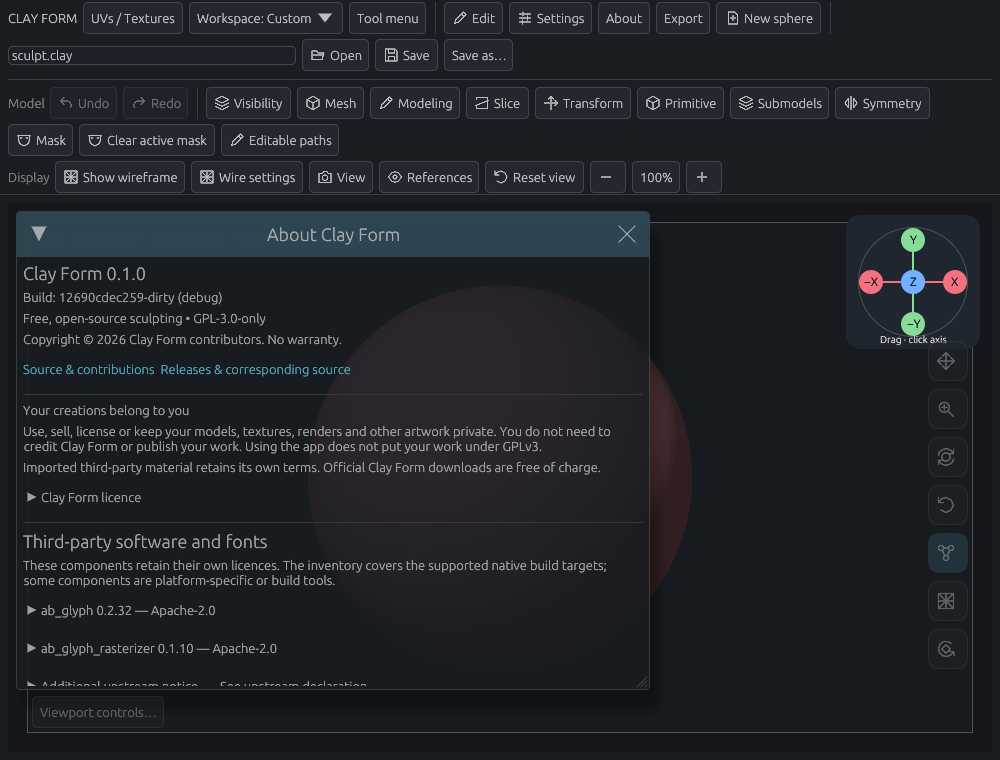
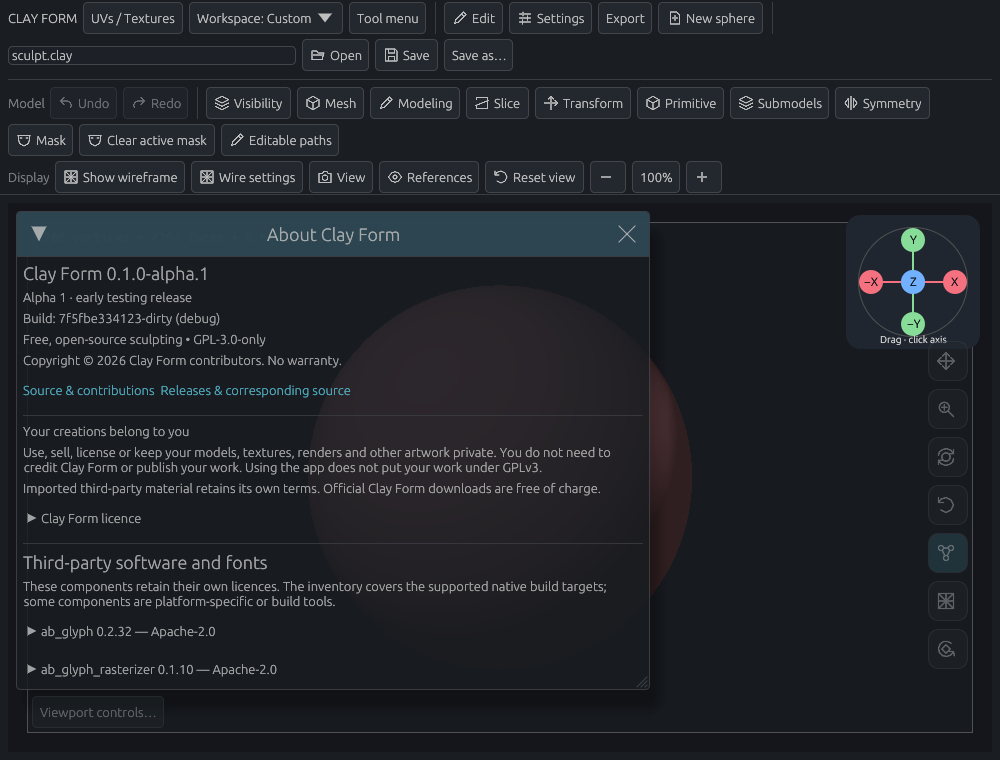
Designate Alpha 1 and keep About inside Settings

Changed region(s): [[0.031, 0.3329, 0.62, 0.9079], [0.589, 0.0, 0.837, 0.0303]]

diff --git a/scripts/test-package-release.py b/scripts/test-package-release.py
@@ -1,5 +1,6 @@
 """Focused archive tests; no compiler, network or signing identity required."""
 import importlib.util
+from itertools import product
 import json
 from pathlib import Path
 import plistlib
@@ -16,10 +17,10 @@ spec.loader.exec_module(packager)
 
 class NativeArchiveTests(unittest.TestCase):
     def test_all_targets_preserve_version_notices_source_identity_and_executable(self):
-        for target, suffix in packager.TARGETS.items():
-            with self.subTest(target=target), tempfile.TemporaryDirectory() as temp:
+        for (target, suffix), version in product(packager.TARGETS.items(), ["1.2.3", "0.1.0-alpha.1"]):
+            with self.subTest(target=target, version=version), tempfile.TemporaryDirectory() as temp:
                 root = Path(temp)
-                (root / 'Cargo.toml').write_text('[package]\nversion = "1.2.3"\n')
+                (root / 'Cargo.toml').write_text(f'[package]\nversion = "{version}"\n')
                 for name in ['LICENSE', 'COPYRIGHT.md', 'README.md', 'THIRD-PARTY-NOTICES.html']:
                     (root / name).write_text(name)
                 for directory in ['docs', 'legal', 'packaging/linux', 'sysroot/share/doc/rust/licenses']:
@@ -43,7 +44,7 @@ class NativeArchiveTests(unittest.TestCase):
 
                 with patch.object(packager, 'ROOT', root), patch('sys.argv', ['packager', '--target', target, '--profile', 'debug']), patch.object(packager.subprocess, 'check_output', side_effect=output), patch.object(packager.subprocess, 'run') as signing:
                     packager.main()
-                name = f'clay-form-v1.2.3-{suffix}'
+                name = f'clay-form-v{version}-{suffix}'
                 extension = '.tar.gz' if 'linux' in target else '.zip'
                 archive = root / 'dist' / (name + extension)
                 self.assertTrue(archive.is_file())
@@ -53,7 +54,7 @@ class NativeArchiveTests(unittest.TestCase):
                 self.assertEqual(metadata['commit'], 'a' * 40)
                 self.assertEqual(metadata['target'], target)
                 self.assertEqual(metadata['profile'], 'debug')
-                self.assertEqual(metadata['source_asset'], 'clay-form-v1.2.3-source.tar.gz')
+                self.assertEqual(metadata['source_asset'], f'clay-form-v{version}-source.tar.gz')
                 if extension == '.zip':
                     with zipfile.ZipFile(archive) as zipped:
                         members = zipped.namelist()
@@ -70,7 +71,8 @@ class NativeArchiveTests(unittest.TestCase):
                     self.assertIn(name + '/Clay Form.app/Contents/Resources/LICENSE', members)
                     plist = plistlib.loads((stage / 'Clay Form.app/Contents/Info.plist').read_bytes())
                     self.assertEqual(plist['CFBundleExecutable'], binary)
-                    self.assertEqual(plist['CFBundleShortVersionString'], '1.2.3')
+                    self.assertEqual(plist['CFBundleShortVersionString'], version.split('-')[0])
+                    self.assertGreater(int(plist['CFBundleVersion']), 0)
                     signing.assert_called_once()
                 else:
                     signing.assert_not_called()

diff --git a/src/app/tests/about.rs b/src/app/tests/about.rs
@@ -23,28 +23,31 @@ fn about_frame(app: &mut App, ctx: &egui::Context, events: Vec<egui::Event>) -> 
 fn about_button_opens_ownership_and_licences_without_editing_document() {
     let mut app = App::default();
     let ctx = egui::Context::default();
+    ctx.style_mut(|s| s.animation_time = 0.);
     let before = app.document.geometry_snapshot();
     about_frame(&mut app, &ctx, vec![]);
-    let output = about_frame(&mut app, &ctx, vec![]);
-    let position = output
-        .shapes
-        .iter()
-        .find_map(|s| match &s.shape {
-            egui::Shape::Text(t) if t.galley.text() == "About" => {
-                Some(t.pos + t.galley.size() * 0.5)
-            }
-            _ => None,
-        })
-        .expect("About button must be reachable");
-    about_frame(
-        &mut app,
-        &ctx,
-        vec![
-            egui::Event::PointerMoved(position),
-            primary_event(position, true),
-        ],
-    );
-    about_frame(&mut app, &ctx, vec![primary_event(position, false)]);
+    for label in ["Settings", "About Clay Form"] {
+        let output = about_frame(&mut app, &ctx, vec![]);
+        let position = output
+            .shapes
+            .iter()
+            .find_map(|s| match &s.shape {
+                egui::Shape::Text(t) if t.galley.text() == label => {
+                    Some(t.pos + t.galley.size() * 0.5)
+                }
+                _ => None,
+            })
+            .unwrap_or_else(|| panic!("{label} must be reachable"));
+        about_frame(
+            &mut app,
+            &ctx,
+            vec![
+                egui::Event::PointerMoved(position),
+                primary_event(position, true),
+            ],
+        );
+        about_frame(&mut app, &ctx, vec![primary_event(position, false)]);
+    }
     assert!(app.ui.about_open);
     about_frame(&mut app, &ctx, vec![]);
     let output = about_frame(&mut app, &ctx, vec![]);

diff --git a/scripts/package-release.py b/scripts/package-release.py
@@ -3,6 +3,7 @@
 import argparse
 import hashlib
 import json
+import os
 import plistlib
 from pathlib import Path
 import shutil
@@ -39,10 +40,15 @@ def main():
         contents = stage / "Clay Form.app" / "Contents"
         destination = contents / "MacOS"
         destination.mkdir(parents=True)
+        build_number = os.environ.get("GITHUB_RUN_NUMBER", "1")
+        if not build_number.isdecimal() or int(build_number) < 1:
+            raise SystemExit("macOS bundle build number must be a positive integer")
         (contents / "Info.plist").write_bytes(plistlib.dumps({
             "CFBundleExecutable": binary, "CFBundleIdentifier": "io.github.dustyghost.clay-form",
             "CFBundleName": "Clay Form", "CFBundlePackageType": "APPL",
-            "CFBundleShortVersionString": version, "CFBundleVersion": version,
+            # The full SemVer remains in About and BUILD-INFO.
+            "CFBundleShortVersionString": version.split("-", 1)[0],
+            "CFBundleVersion": build_number,
             "NSHighResolutionCapable": True,
         }))
     shutil.copy2(ROOT / "target" / args.target / args.profile / binary, destination / binary)

diff --git a/src/ui/about.rs b/src/ui/about.rs
@@ -33,6 +33,9 @@ impl UiState {
             .vscroll(true)
             .show(ctx, |ui| {
                 ui.heading(format!("Clay Form {}", env!("CARGO_PKG_VERSION")));
+                if let Some(number) = env!("CARGO_PKG_VERSION_PRE").strip_prefix("alpha.") {
+                    ui.strong(format!("Alpha {number} · early testing release"));
+                }
                 ui.label(format!("Build: {}", env!("CLAY_BUILD_ID")));
                 ui.label("Free, open-source sculpting • GPL-3.0-only");
                 ui.label("Copyright © 2026 Clay Form contributors. No warranty.");

diff --git a/src/main.rs b/src/main.rs
@@ -3,11 +3,14 @@
 use clay_form::App;
 use eframe::egui;
 fn main() -> eframe::Result {
+    let title = format!("Clay Form {}", env!("CARGO_PKG_VERSION"));
     eframe::run_native(
         "Clay Form",
         eframe::NativeOptions {
             renderer: eframe::Renderer::Wgpu,
-            viewport: egui::ViewportBuilder::default().with_inner_size([1280., 850.]),
+            viewport: egui::ViewportBuilder::default()
+                .with_title(title)
+                .with_inner_size([1280., 850.]),
             ..Default::default()
         },
         Box::new(|cc| {

diff --git a/src/ui/menus.rs b/src/ui/menus.rs
@@ -301,6 +301,13 @@ impl UiState {
                 ui.label("Geometry and masks • history resets on New/Open");
             }
             BuiltinMenu::Settings => {
+                if ui.button("About Clay Form").clicked() {
+                    self.about_open = true;
+                    if popup {
+                        ui.close_kind(egui::UiKind::Menu);
+                    }
+                }
+                ui.separator();
                 if ui
                     .add(design::button(
                         ui,

diff --git a/src/ui.rs b/src/ui.rs
@@ -323,9 +323,6 @@ impl UiState {
                 self.builtin_menu(ui, BuiltinMenu::Edit, document, camera, &mut commands);
                 self.builtin_menu(ui, BuiltinMenu::Settings, document, camera, &mut commands);
                 self.custom_menu_bar(ui, document, &mut commands);
-                if ui.button("About").clicked() {
-                    self.about_open = true;
-                }
                 ui.menu_button("Export", |ui| {
                     if ui
                         .button("OBJ")

diff --git a/docs/validation/open-source-2026-10-28/README.md b/docs/validation/open-source-2026-10-28/README.md
@@ -1,12 +1,12 @@
 # Open-source preparation checks
 
-- Focused egui interaction test opens About using its real toolbar button,
+- Focused egui interaction test opens Settings → About Clay Form,
   checks the ownership statement and verifies that pointer input behind the
   window cannot sculpt or create undo entries: passed.
 - Manual Vulkan/software-rendered About capture: passed and visually reviewed
   at 1000 × 760. Text, close control, source links and scrollable notices are
   reachable. See [capture](about.png).
-- Archive unit checks cover six native target layouts, dotted version names,
+- Archive unit checks cover six native target layouts, stable and alpha versions,
   source/build identity, executable permissions, mandatory licences/checksums,
   macOS bundle metadata and the signing invocation: passed using fixtures.
   These tests do not establish native compilation or app launch behaviour.
@@ -15,5 +15,7 @@
   audit records, not completed legal clearance.
 - Gitleaks 8.30.1: scanned 95 reachable commits / about 6.23 MB, no matching
   leaks. A clean pattern scan is not proof of complete absence of private data.
-- Cross-platform compilation, complete tests/lint and existing GPU regressions
-  run in PR CI. Physical hardware and distro smoke tests remain outstanding.
+- Native compilation and packaging passed in PR CI for all six targets, and
+  the vendored source archive passed its offline relocation check. Complete
+  tests/lint and existing GPU regressions also run in PR CI. Physical hardware
+  and distro smoke tests remain outstanding.

diff --git a/docs/open-source-readiness.md b/docs/open-source-readiness.md
@@ -7,6 +7,9 @@ claim that Clay Form is already cleared or tested on every platform.
 
 ## Licensing and ownership
 
+The chosen first public testing version is **0.1.0-alpha.1**, displayed as
+**Alpha 1**. This is a prerelease designation, not a claim of production readiness.
+
 The owner confirmed all original code/artwork is theirs to release and that
 no borrowed proprietary assets were included. Original repository content uses
 GPL-3.0-only, with complete terms in LICENSE and package metadata. Official
@@ -51,6 +54,11 @@ xkbcommon and Vulkan runtime libraries/driver. They are not musl/Alpine builds,
 recipe avoids the prebuilt glibc baseline when built locally. Native `.deb`,
 `.rpm`, Flatpak/AppImage, AUR publication, winget and Homebrew distribution are
 follow-up packaging choices; portable archives are the initial delivery format.
+
+The inspected Windows x86-64 executable imports `VCRUNTIME140.dll`. A clean
+Windows installation needs the [matching Microsoft Visual C++ v14 runtime](https://learn.microsoft.com/en-us/cpp/windows/latest-supported-vc-redist/)
+if it is absent. The runtime is installed separately, not redistributed in our
+ZIP. Verify ARM64's matching runtime during clean-machine testing.
 
 The Linux-specific tablet reader is guarded by target configuration. Native
 pressure events are accepted where available on other platforms, with full

diff --git a/.github/RELEASE-NOTES.md b/.github/RELEASE-NOTES.md
@@ -1,9 +1,16 @@
+**Alpha 1 — 0.1.0-alpha.1.** An early testing release, with features and file
+formats still evolving. Keep backups of important projects.
+
 Clay Form is free and open source under GPLv3. Your models, textures, renders
 and other creations remain yours to use, sell, license or keep private.
 
 Download the archive for your operating system and CPU. `aarch64` means ARM64;
 Apple Silicon Macs use `macos-aarch64`. Linux archives target glibc 2.35+
 desktops with a working Vulkan driver. They are not Alpine/musl builds.
+
+Windows requires the Microsoft Visual C++ v14 runtime for the selected
+architecture. Use [Microsoft's supported redistributable installer](https://learn.microsoft.com/en-us/cpp/windows/latest-supported-vc-redist/)
+if it is not already installed. The runtime is not bundled with Clay Form.
 
 **Corresponding source:** the `source.tar.gz` asset contains the exact app
 source, build scripts, lockfile and vendored Cargo dependencies for these

diff --git a/.github/RELEASING.md b/.github/RELEASING.md
@@ -20,6 +20,14 @@ repository to the public is a separate maintainer action.
 
 ## Create a draft release
 
+The first public testing version is **0.1.0-alpha.1 (Alpha 1)**. Continue with
+`0.1.0-alpha.2`, then `0.1.0-beta.1` when ready for beta testing, and `0.1.0`
+when that development cycle is ready for a stable release. Hyphenated versions
+are automatically marked as GitHub prereleases, in addition to being drafts.
+Arch uses `pkgver=0.1.0alpha1` and a separate `_upstream_version` for its tag;
+update both together. macOS uses the numeric `0.1.0` marketing version and CI
+run number as its bundle build counter; About retains the full alpha version.
+
 1. Update Cargo.toml, Cargo.lock and `packaging/arch/PKGBUILD` to a new version.
    Do not reuse a published tag. Regenerate/review notices after metadata changes.
 2. Merge to `main` once CI passes. The preparation PR is stacked on ongoing

diff --git a/README.md b/README.md
@@ -1,4 +1,6 @@
-# Clay Form
+# Clay Form — Alpha 1
+
+Version **0.1.0-alpha.1** is an early testing release.
 
 A Rust desktop sculpting prototype built with eframe/egui. Start from a sphere and sculpt real mesh vertices with a pen or mouse.
 
@@ -14,6 +16,9 @@ claim of tested support. [Release instructions](.github/RELEASING.md) cover
 Windows, macOS, Linux and ARM64 artifacts, corresponding source and checksums.
 
 ## Run
+
+Windows packages require the [Microsoft Visual C++ v14 runtime](https://learn.microsoft.com/en-us/cpp/windows/latest-supported-vc-redist/)
+for their CPU architecture if it is not already installed.
 
 Install Rust through rustup, then run from the repository root (rustup selects the version pinned in `rust-toolchain.toml`):
 
